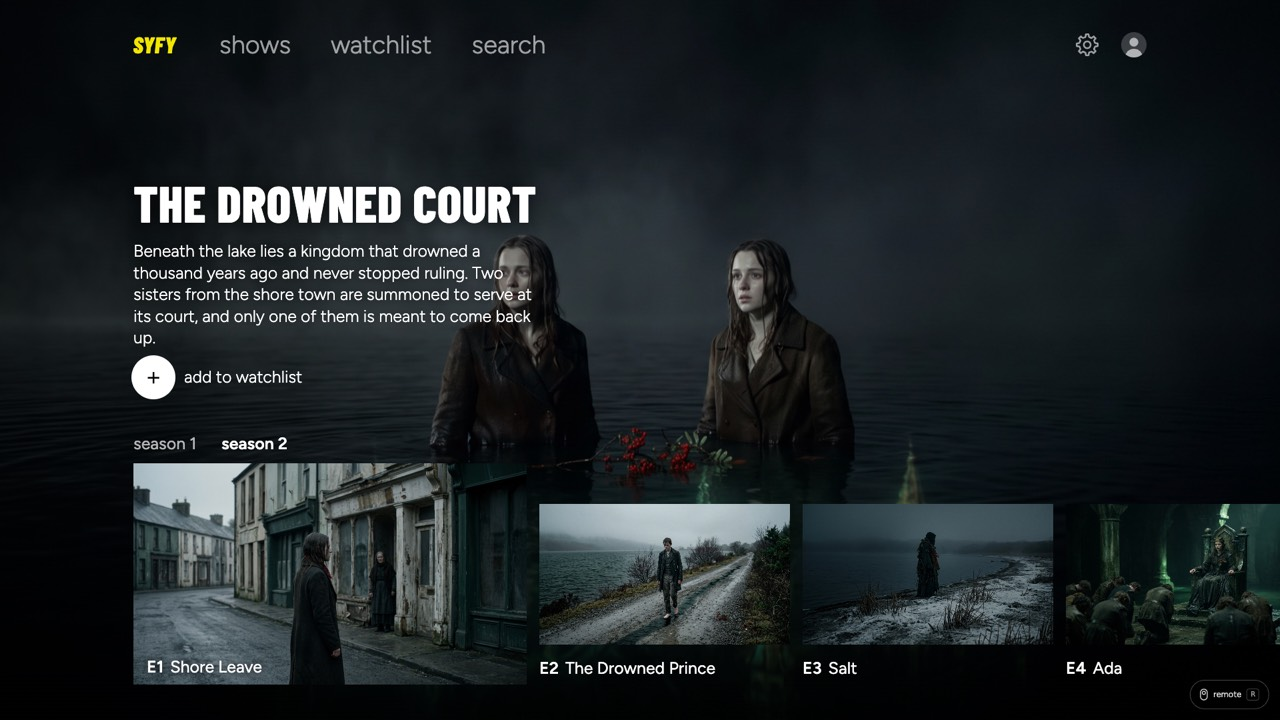
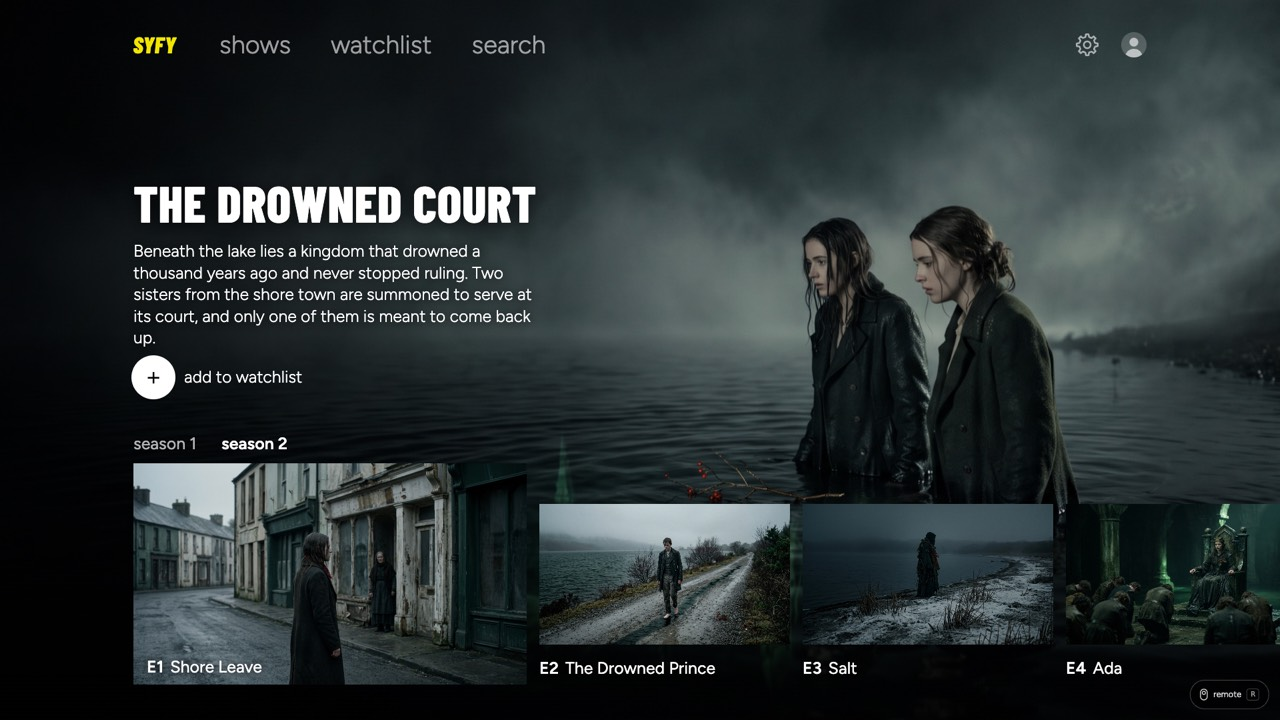
Hero: right-of-centre re-take so the TV logline clears the sisters
Seed 90518, no reference image; artFocus 72% keeps both sisters in the
phone 3:4 and 4:5 crops. Prompt records updated.

diff --git a/public/art/the-drowned-court/prompts.md b/public/art/the-drowned-court/prompts.md
@@ -1,6 +1,6 @@
 # The Drowned Court: generated art prompts
 
-Style lock for issue #33. The hero is the locked reference: every still and the key art pass it as `images[0]`.
+Style lock for issue #33. The lock hero (seed 90517, centred) is the reference image every still and the key art pass as `images[0]`; the shipped hero is a right-of-centre re-take (seed 90518), described below.
 
 Still template v2 replaced the research doc's v1 opening ("Same series, same world, same lens and grade as the reference image"), which made the model paste the hero's sunken spires into the bottom of 10 of 12 stills. v2 limits the reference to grade, grain, lens and light, uses a seed per still (905SE), and bans signage and writing. The 1x1 scene asks for "knife-cut marks" rather than names, because "names cut into the bark" rendered as legible text.
 
@@ -8,11 +8,11 @@ Model: fal-ai/nano-banana-2 (Nano Banana 2.1, via Figma Weave). House-style suff
 
 ## hero.jpg
 
-Seed 90517, 16:9 at 2K, thinking High. Picked from four candidates (seeds 48213, 90517, 17742, 63390).
+Seed 90518, 16:9 at 2K, thinking High, no reference image. Right-of-centre hero (Rob, 3 Nov): the left 40% stays clear for the TV logline; artFocus 72% keeps both sisters in the phone crops. It replaces the centred lock hero (seed 90517, the original template, picked from seeds 48213, 90517, 17742, 63390), which stays the reference image for the key art and stills. A run with that hero as reference ignored the move and stayed centred.
 
 ```
 The Drowned Court, a fantasy series. Beneath the lake lies a kingdom that drowned a thousand years ago and never stopped ruling. Two sisters from the shore town are summoned to serve at its court, and only one of them is meant to come back up.
-Establishing image of the series' world with its central figure or object held in the middle third of the frame: two young women in wet wool coats standing waist-deep at the lake edge at night, the spires of a sunken court faintly lit green beneath the surface in front of them, a rowan branch floating between them; mid-shot, horizon in the lower third, headroom above, fog and black water in the outer thirds, nothing essential near the left or right edge, no cropped faces, no action at the frame edge.
+Establishing image of the series' world with its central figures held right of centre, between 45% and 75% of the frame width: two young women in wet wool coats standing waist-deep at the lake edge at night, the spires of a sunken court faintly lit green beneath the surface in front of them, a rowan branch floating between them; mid-shot, horizon in the lower third, headroom above, the left 40% of the frame only fog and black water with no figures and no detail, nothing essential near the right edge, no cropped faces, no action at the frame edge.
 Dark, cinematic, photographic realism, shot on anamorphic 35 mm, shallow depth of field, one motivated light source, deep shadows with lifted blacks, fine film grain, muted palette of lake-black, bottle green, tarnished brass and bone white with a single accent of cold rowan-berry red, colour held consistent across the series. No on-screen text, no lettering, no logos, no watermark, no captions, no subtitles, no UI. No one looks at the camera.
 ```
 

diff --git a/.scratch/style-lock/handoff-style-lock.md b/.scratch/style-lock/handoff-style-lock.md
@@ -31,3 +31,5 @@ Done when Rob approves the style and this PR merges. #34 (batch) and #35 (Coming
 ## Rob's answers (3 Nov 2026)
 
 He approved HS-1 with still template v2, title-clear posters, separate hero and key art, and the four-plus-one palette rule. TV heroes move the subject into the right two-thirds. Next: re-generate The Drowned Court hero to that rule (about 10 credits), swap it in, and merge #41.
+
+Hero swapped (3 Nov, Rob picked B): seed 90518, no reference image, sisters at 62–84% of the width, artFocus `72% 50%` for the phone crops. A re-take using the old hero as reference ignored the move and stayed centred, so in #34 TV heroes are generated fresh from text, not edited. Spend for the re-take: 20 credits (278 total).
